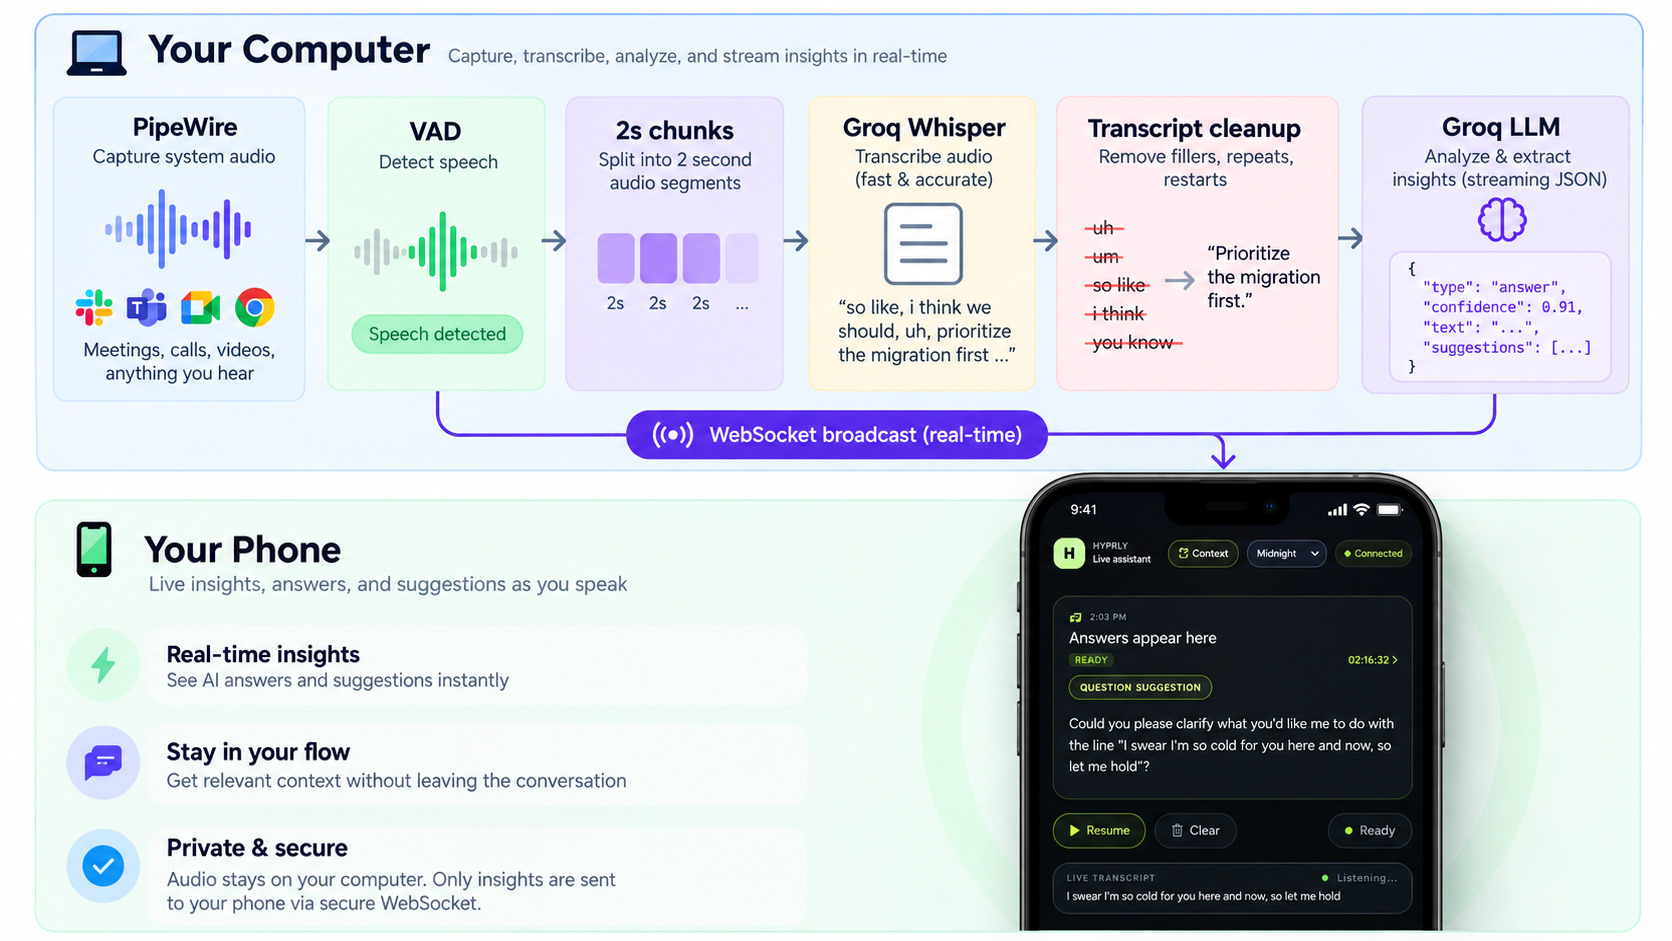
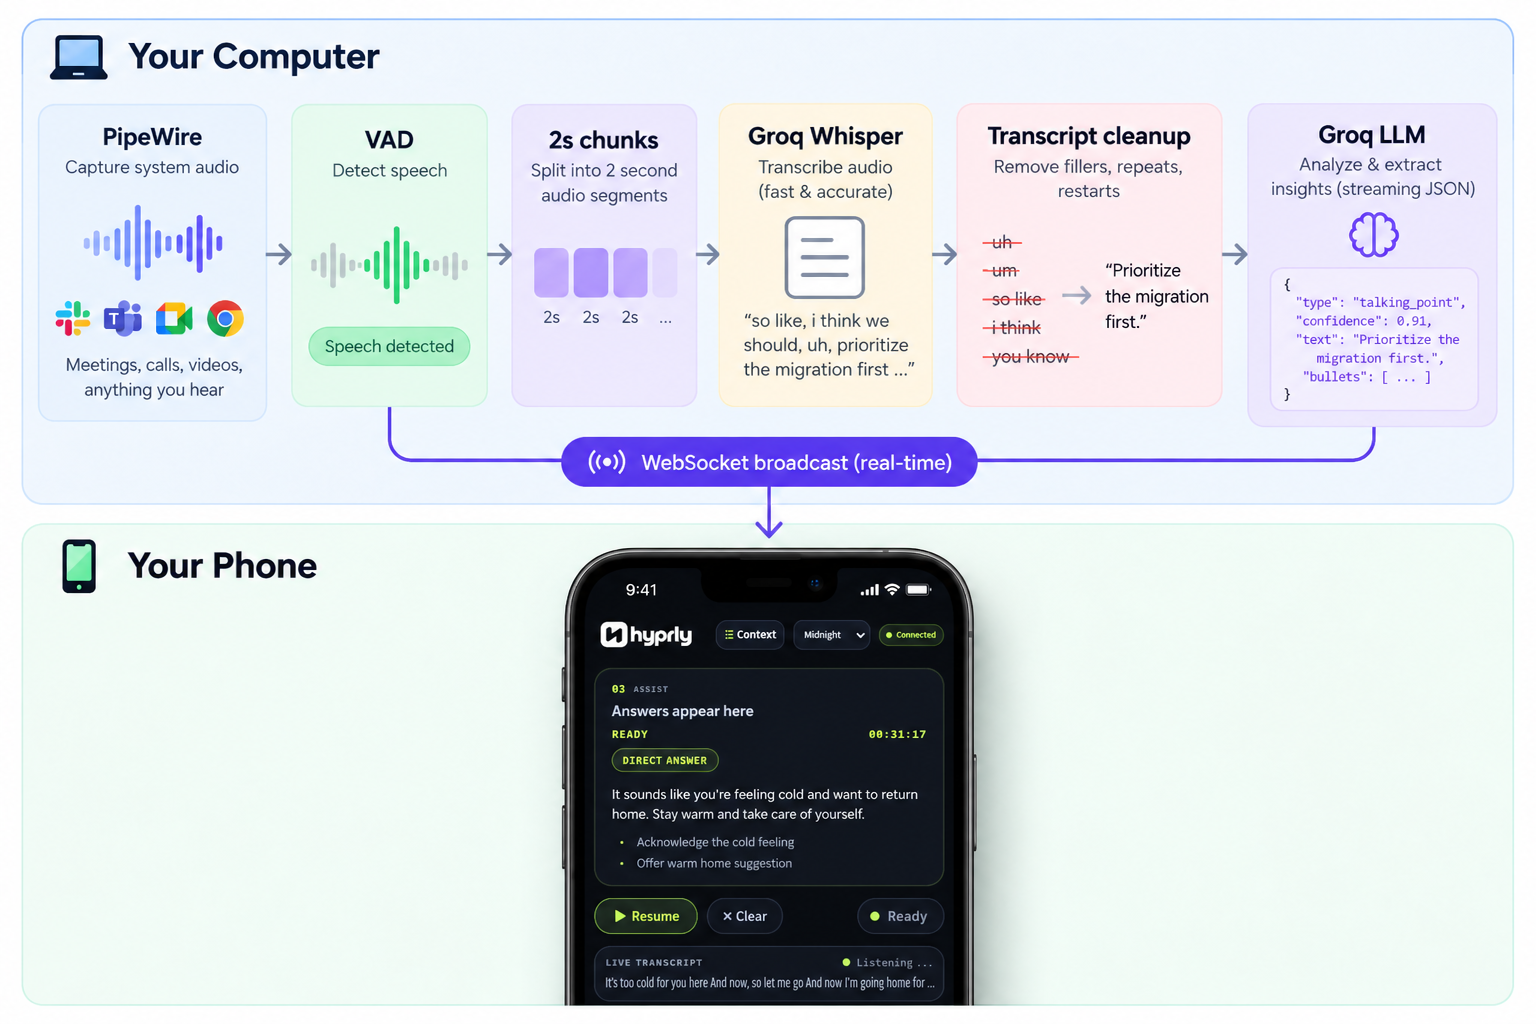
Clean Readme.md

diff --git a/src/render_clone_chart.py b/src/render_clone_chart.py
@@ -1,0 +1,105 @@
+#!/usr/bin/env python3
+"""Render a compact, plot-only clone history SVG from Repo Growth history."""
+
+import json
+from datetime import datetime
+from pathlib import Path
+
+
+ROOT = Path(__file__).resolve().parent.parent
+HISTORY = ROOT / ".github/repo-growth/history.json"
+OUTPUT = ROOT / "assets/repo-growth-clones.svg"
+
+WIDTH = 800
+HEIGHT = 292
+LEFT = 62
+RIGHT = 782
+TOP = 24
+BOTTOM = 220
+
+
+def esc(value):
+    return (str(value).replace("&", "&amp;").replace("<", "&lt;")
+            .replace(">", "&gt;").replace('"', "&quot;"))
+
+
+def main():
+    data = json.loads(HISTORY.read_text(encoding="utf-8"))
+    points = [p for p in data.get("points", []) if p.get("clones") is not None]
+    if not points:
+        raise SystemExit("No clone history points found")
+
+    values = [int(p["clones"]) for p in points]
+    dates = [p["date"] for p in points]
+    data_low, data_high = min(values), max(values)
+    if data_low == data_high:
+        data_low = max(0, data_low - 1)
+        data_high += 1
+    span = data_high - data_low
+    # A little headroom keeps the line from touching the chart's top edge.
+    low = max(0, data_low - span * 0.08)
+    high = data_high + span * 0.08
+
+    def x_at(i):
+        return LEFT if len(points) == 1 else LEFT + i * (RIGHT - LEFT) / (len(points) - 1)
+
+    def y_at(value):
+        return BOTTOM - (value - low) * (BOTTOM - TOP) / (high - low)
+
+    path = " ".join(
+        ("M" if i == 0 else "L") + f"{x_at(i):.1f} {y_at(v):.1f}"
+        for i, v in enumerate(values)
+    )
+    # Three value ticks and three date labels keep the plot easy to scan.
+    tick_values = [data_high, (data_high + data_low) / 2, data_low]
+    grid = []
+    for value in tick_values:
+        y = y_at(value)
+        label = str(max(0, round(value)))
+        grid.append(
+            f'<line x1="{LEFT - 5}" y1="{y:.1f}" x2="{LEFT}" y2="{y:.1f}" '
+            'stroke="#f4f4f5" stroke-width="2" />'
+            f'<text x="{LEFT - 13}" y="{y + 5:.1f}" text-anchor="end" '
+            'fill="#f4f4f5" font-size="15">'
+            f'{esc(label)}</text>'
+        )
+
+    date_indices = sorted(set((0, (len(points) - 1) // 2, len(points) - 1)))
+    date_labels = []
+    for i in date_indices:
+        dt = datetime.strptime(dates[i], "%Y-%m-%d")
+        anchor = "start" if i == 0 else "end" if i == len(points) - 1 else "middle"
+        date_labels.append(
+            f'<text x="{x_at(i):.1f}" y="{BOTTOM + 25}" text-anchor="{anchor}" '
+            'fill="#f4f4f5" font-size="15">'
+            f'{dt.strftime("%b %-d, %Y")}</text>'
+        )
+
+    updated_at = data.get("updatedAt", "")
+    updated = ""
+    if updated_at:
+        try:
+            updated_date = datetime.fromisoformat(updated_at.replace("Z", "+00:00"))
+            updated = updated_date.strftime("Updated on %b %-d, %Y")
+        except ValueError:
+            updated = "Updated"
+
+    svg = f'''<svg xmlns="http://www.w3.org/2000/svg" width="800" height="292" viewBox="0 0 800 292" role="img" aria-labelledby="title desc">
+  <title id="title">Hyprly clone history</title>
+  <desc id="desc">Cumulative Git clone history over time.</desc>
+  <rect width="800" height="292" fill="#0d1015" />
+  {''.join(grid)}
+  <line x1="{LEFT}" y1="{TOP}" x2="{LEFT}" y2="{BOTTOM}" stroke="#f4f4f5" stroke-width="2" />
+  <line x1="{LEFT}" y1="{BOTTOM}" x2="{RIGHT}" y2="{BOTTOM}" stroke="#f4f4f5" stroke-width="2" />
+  <path d="{path}" fill="none" stroke="#ff686f" stroke-width="3" stroke-linecap="round" stroke-linejoin="round" />
+  {''.join(date_labels)}
+  <text x="{(LEFT + RIGHT) / 2}" y="274" text-anchor="middle" fill="#f4f4f5" font-size="14">Date</text>
+  <text x="18" y="{(TOP + BOTTOM) / 2}" transform="rotate(-90 18 {(TOP + BOTTOM) / 2})" text-anchor="middle" fill="#f4f4f5" font-size="14">Git clones</text>
+  <text x="{LEFT}" y="289" fill="#a1a1aa" font-size="10">{esc(updated)}</text>
+</svg>
+'''
+    OUTPUT.write_text(svg, encoding="utf-8")
+
+
+if __name__ == "__main__":
+    main()

diff --git a/README.md b/README.md
@@ -2,7 +2,7 @@
 
 <picture>
   <source media="(prefers-color-scheme: dark)" srcset="assets/logo_text_white.png">
-  <img src="assets/logo_text.png" alt="Hyprly" width="360">
+  <img src="assets/logo_text_white.png" alt="Hyprly" width="360">
 </picture>
 
 ### Private meeting audio, with answers on your phone.
@@ -16,7 +16,7 @@
 Hyprly is a Linux desktop app that captures meeting audio through PipeWire, transcribes it with Groq Whisper, and streams AI answers to a phone browser. Audio is processed in memory and is not saved to disk.
 
 <p align="center">
-  <img src="assets/hyprly-desktop.png" alt="Hyprly desktop app showing API setup, system checks, and phone pairing" width="100%">
+  <img src="assets/hyprly-suite.png" alt="Hyprly desktop app showing API setup, system checks, and phone pairing" width="100%">
 </p>
 
 ## How it works
@@ -65,8 +65,6 @@ This runs Hyprly from the project directory; it does not install it system-wide.
 The desktop app also provides PipeWire and optional PDF/DOCX tool checks. Closing the window keeps Hyprly available from the system tray.
 
 ## Clone history
-
-The scheduled GitHub Actions workflow collects clone traffic and updates this graph:
 
 ![Hyprly clone history](assets/repo-growth-clones.svg)
 
